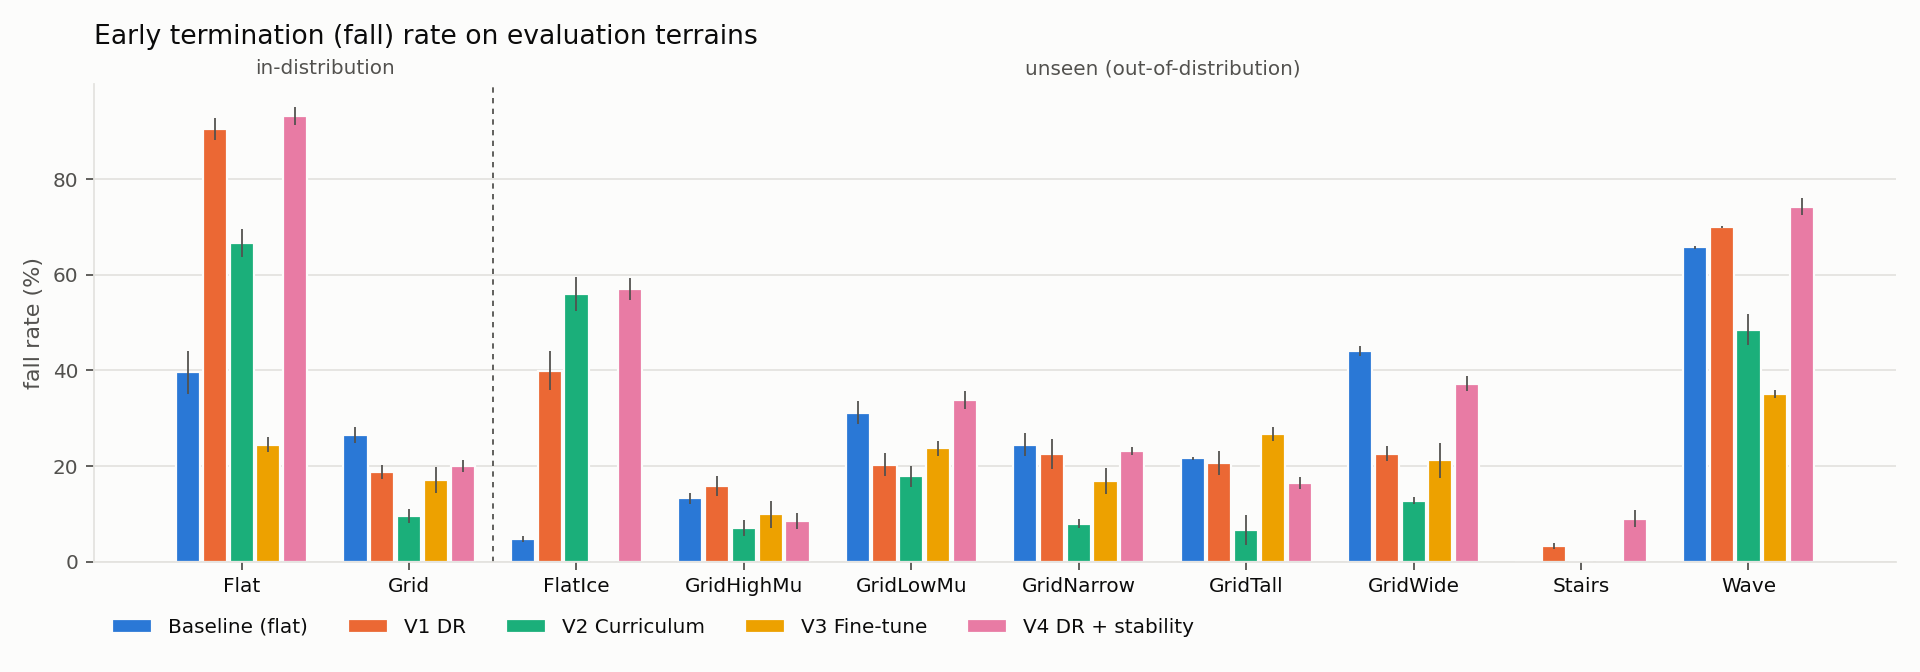
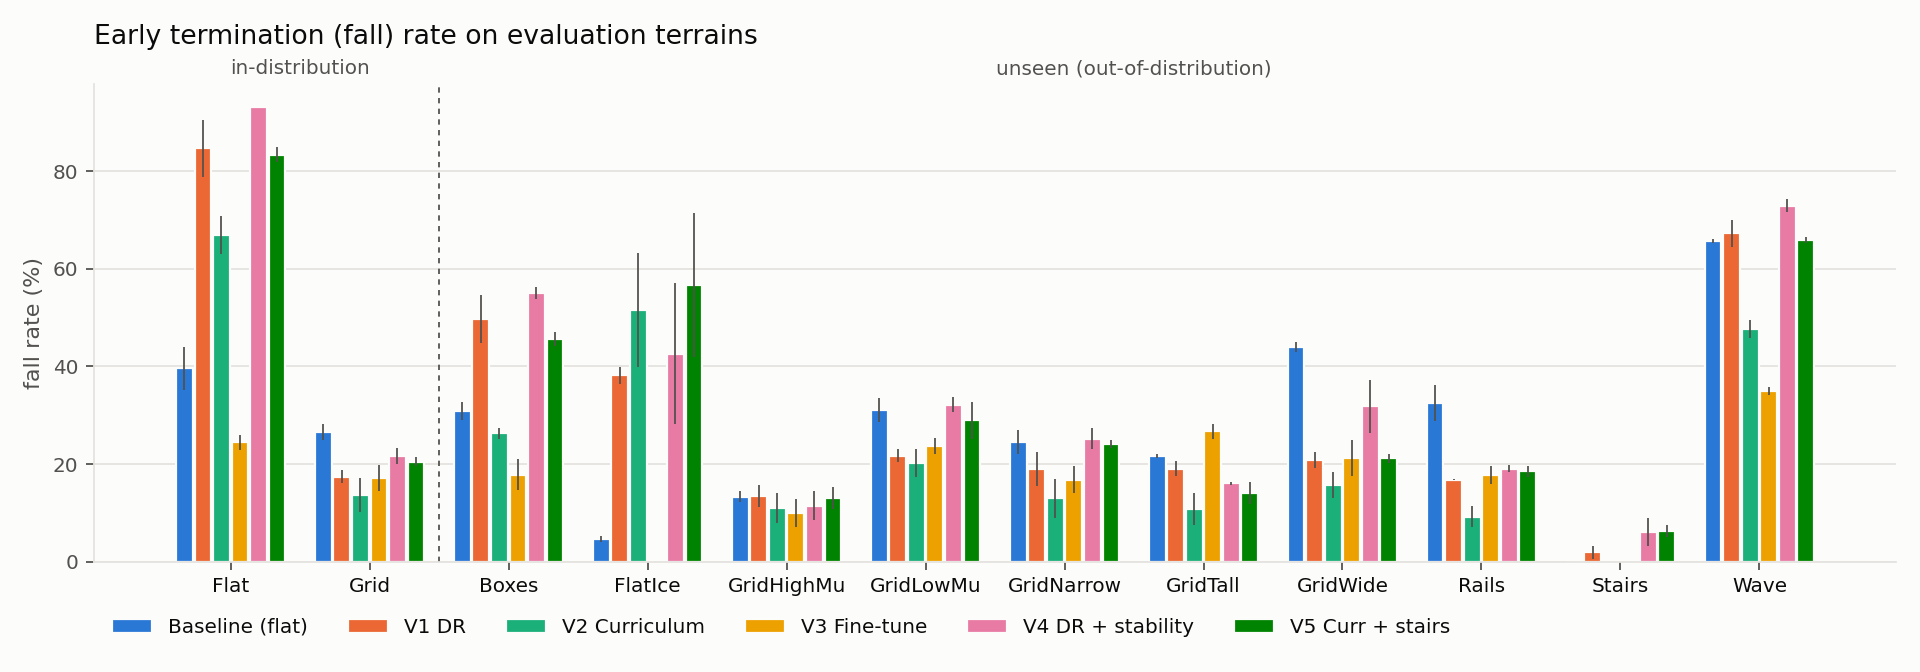
평가: seed 반복·held-out(Boxes/Rails)·V5 결과, 변형 단위 집계 그래프
- results/eval_full_seeds.csv, eval_heldout_boxes_rails.csv, eval_full_v5.csv
- plot_results.py: <variant>_s<seed> 체크포인트를 변형 단위로 묶어 학습 seed 평균 ± sd
- 결론: V2 커리큘럼이 12종 평균 47.5로 1위, 학습 seed 3개 모두 46.9~48.4로 안정

diff --git a/assignment1_ant/scripts/plot_results.py b/assignment1_ant/scripts/plot_results.py
@@ -36,7 +36,7 @@ ENTITY_LABELS = {
     "v2": "V2 Curriculum",
     "v3": "V3 Fine-tune",
     "v4": "V4 DR + stability",
-    "v5": "V5",
+    "v5": "V5 Curr + stairs",
     "final": "Final",
 }
 SURFACE = "#fcfcfb"
@@ -60,11 +60,26 @@ def style_axes(ax):
 
 
 def load_eval(csv_paths):
-    acc = defaultdict(list)  # (task, split, ckpt) -> rows
+    """(task, split, variant) -> list of per-checkpoint rows averaged over eval seeds.
+
+    Checkpoints named ``<variant>_s<seed>`` (training-seed replicates) are grouped under ``<variant>``, so a bar is
+    the mean over training seeds and its error bar the spread across them (across eval seeds if only one).
+    """
+    per_ckpt = defaultdict(list)  # (task, split, ckpt) -> rows over eval seeds
     for p in csv_paths:
         with open(p) as f:
             for row in csv.DictReader(f):
-                acc[(row["task"], row["split"], row["checkpoint"])].append(row)
+                per_ckpt[(row["task"], row["split"], row["checkpoint"])].append(row)
+    acc = defaultdict(list)
+    for (task, split, ckpt), rows in per_ckpt.items():
+        variant = ckpt.split("_s")[0]
+        if len(rows) > 1 and not any(ckpt.split("_s")[0] == c.split("_s")[0] and c != ckpt
+                                     for (t, s, c) in per_ckpt if (t, s) == (task, split)):  # fmt: skip
+            acc[(task, split, variant)].extend(rows)  # single training seed: keep eval-seed spread
+        else:
+            acc[(task, split, variant)].append(
+                {k: str(np.mean([float(r[k]) for r in rows])) for k in ("reward_mean", "fall_rate")}
+            )
     return acc
 
 
@@ -168,7 +183,7 @@ def main():
     present = {c for _, _, c in acc}
     ckpts = args.ckpts or [c for c in ENTITY_COLORS if c in present]
     grouped_bars(acc, "reward_mean", "episode reward (first episode)",
-                 "Episode reward on self-made evaluation terrains (mean ± sd over 3 seeds, 256 envs each)",
+                 "Episode reward on self-made evaluation terrains (mean ± sd over training seeds; 3 eval seeds × 256 envs each)",
                  os.path.join(args.out, "eval_reward.png"), ckpts)  # fmt: skip
     grouped_bars(acc, "fall_rate", "fall rate (%)", "Early termination (fall) rate on evaluation terrains",
                  os.path.join(args.out, "eval_fall_rate.png"), ckpts, percent=True)  # fmt: skip

diff --git a/assignment1_ant/docs/log_0929.md b/assignment1_ant/docs/log_0929.md
@@ -108,6 +108,24 @@
 - 평가 세트에 held-out 2종 추가: **Boxes**(기울어진 상자), **Rails**(레일). baseline: Boxes 7.6 (31%), Rails 8.5 (47%) (32 envs 스모크)
 - 커밋 `848ea41`
 
+- V5 s42 완료 (2337 s, train 58.9, 레벨 6.9), V5 s43 완료 (1582 s, train 57.6, 레벨 7.4), V2 s43/s44 완료 (train 61.3/64.8)
+- 막힌 것 → 해결: 대기 루프 `pgrep -f "<패턴>"`이 대기 셸 자신의 명령줄과 매칭되어 무한 대기 (2회). `^/…/python` 앵커로 해결. 약 25분 손실
+- **평가 12종 × 변형(학습 seed 평균)** — `results/eval_full_seeds.csv`, `eval_heldout_boxes_rails.csv`, `eval_full_v5.csv`
+
+  | task | baseline | V1 (2) | V2 (3) | V3 (1) | V4 (2) | V5 (2) |
+  |---|---|---|---|---|---|---|
+  | Flat | **58.6** (40%) | 24.9 (85%) | 38.3 (67%) | 41.9 (24%) | 18.1 (93%) | 29.3 (83%) |
+  | Grid | 5.6 | 49.7 | **54.0** (14%) | 16.9 | 43.5 | 46.7 |
+  | Boxes (held-out) | 8.9 | 40.1 | **52.0** (26%) | 22.5 | 34.2 | 41.1 |
+  | Rails (held-out) | 9.0 | 58.8 | **65.1** (9%) | 21.1 | 51.6 | 56.3 |
+  | Stairs | 7.2 | 35.9 | 7.0 | 8.0 | 35.4 | **47.7** (V5는 ID) |
+  | Wave | 12.0 | 34.1 | **45.6** | 31.1 | 30.2 | 35.9 |
+  | **평균 12종** | 16.2 | 44.3 | **47.5** | 24.1 | 38.9 | 43.8 |
+
+  학습 seed별 평균 12종: V1 43.2/45.5, **V2 46.9/47.3/48.4**, V4 37.7/40.1, V5 42.6/45.0 → V2가 seed 간 안정적으로 1위
+- **V5는 V2를 넘지 못함**: 계단(학습함)만 크게 향상, 나머지 전반 하락, **메시 평지 낙상 83%로 개선 안 됨**
+  → "평지를 거의 못 봐서"라는 가설은 메시 평지 문제의 주원인이 아님. 원인 미확정
+
 ## 결정
 - ⚠ IsaacLab_RS에 `v2.3.0` 태그가 없음 (태그 0개, 브랜치 `main`만 존재). `main` @ `e83a5d2`의 `VERSION` = 2.3.0,
   `scripts/reinforcement_learning/rsl_rl/play_one_episode.py` 존재 → `main`을 수업 기준 2.3.0으로 사용
@@ -128,5 +146,6 @@
 - 없음 (위 grid_width, partial 진입점, inference tensor 에러는 모두 해결)
 
 ## 다음 행동
-- V2 s43/s44, V5 s42 완료 후 평가 세트 12종으로 V1(s42,s43), V2(s42~44), V4(s43), V5 평가
-- V5가 V2보다 나으면 V5 seed 반복 → 최종 제출 체크포인트 선정
+- 형근과 결정: 제출 체크포인트 = V2 (seed 선택 기준), V5 s44 학습 중(참고용)
+- 메시 평지 낙상 원인 조사 (종료 순간 자세·접촉) — 발표 분석 포인트
+- 제출물 정리: README, eval_command.txt, checkpoints/final, 대표 영상, report_material.md
